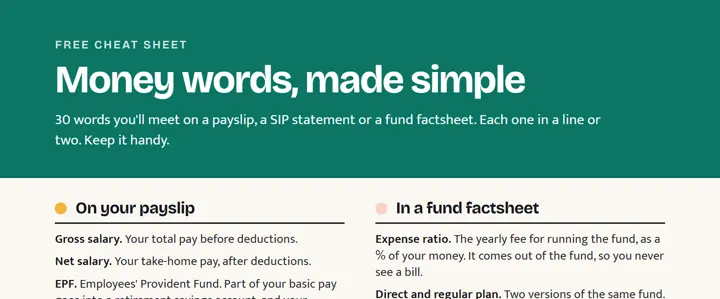
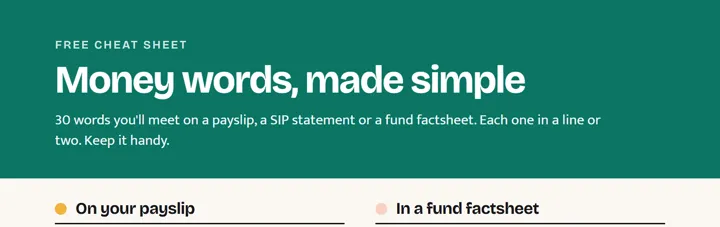
Redesign the cheat-sheet teaser as a locked sheet card
Only the title and headings show; definitions are hidden lines, with a clear sign-up row. Ad 6 matches.

diff --git a/_dev/ads/meta-nov26.html b/_dev/ads/meta-nov26.html
@@ -52,7 +52,13 @@ h1 .hl { color: var(--accent); }
 .ad-6 > .legal { color: #CFE7DF; }
 .ad-6 { padding-bottom: 0; }
 .ad-6 .mid { flex: 1; min-height: 0; overflow: hidden; justify-content: flex-start; margin: 48px -88px 0; padding: 24px 88px 0; }
-.ad-6 .sheet { margin: 40px 0 0; flex: none; width: 820px; border-radius: 16px 16px 0 0; box-shadow: none; -webkit-mask-image: linear-gradient(#000 45%, transparent 98%); mask-image: linear-gradient(#000 45%, transparent 98%); }
+.card6 { width: 840px; align-self: center; margin-top: 36px; background: #FAF7F2; border: 2px solid var(--line); border-radius: 28px; overflow: hidden; rotate: -2deg; box-shadow: 0 30px 60px -30px rgba(0,0,0,.35); }
+.card6 img { display: block; width: 100%; }
+.lines6 { display: grid; grid-template-columns: 1fr 1fr; gap: 18px 8%; padding: 22px 7.5% 30px; -webkit-mask-image: linear-gradient(#000 30%, transparent); mask-image: linear-gradient(#000 30%, transparent); }
+.lines6 span { height: 14px; border-radius: 7px; background: var(--line); }
+.lines6 span:nth-child(3n+2) { width: 72%; } .lines6 span:nth-child(3n) { width: 86%; }
+.lock6 { display: flex; align-items: center; justify-content: center; gap: 14px; padding: 28px; background: var(--paper-hi); border-top: 2px solid var(--line); font: 600 38px/1 'Bricolage Grotesque'; color: var(--ink); }
+.lock6 svg { width: 40px; height: 40px; }
 .ad-6 .cta { position: relative; z-index: 2; background: var(--accent); margin: 0 -88px; padding: 36px 88px 64px; }
 </style>
 </head>
@@ -132,7 +138,7 @@ h1 .hl { color: var(--accent); }
   <span class="eyebrow">Free download</span>
   <h1>30 money words.<br><span class="hl">One page. Free.</span></h1>
   <p class="sub">Payslip, SIP statement, fund factsheet. Each word in a line or two.</p>
-  <div class="mid"><img class="sheet" src="../../assets/img/money-words-teaser.webp" alt=""></div>
+  <div class="mid"><div class="card6"><img src="../../assets/img/money-words-teaser.webp" alt=""><div class="lines6"><span></span><span></span><span></span><span></span><span></span><span></span><span></span><span></span></div><div class="lock6"><svg viewBox="0 0 24 24"><rect x="4.5" y="10.5" width="15" height="10" rx="2.5" fill="#0B7564"/><path d="M8 10.5V8a4 4 0 0 1 8 0v2.5" fill="none" stroke="#0B7564" stroke-width="2.2" stroke-linecap="round"/></svg>All 30 words inside</div></div></div>
   <div class="cta" style="color:#fff;border:0"><div class="brand">%LOGO_W%<span>Research<small>by Srivathsa</small></span></div><span class="btn" style="background:#fff;color:var(--accent)">Get it free →</span></div>
   <p class="legal" style="color:#CFE7DF;z-index:3">Educational content only. Not investment advice.</p>
 </section>

diff --git a/assets/css/site.css b/assets/css/site.css
@@ -970,10 +970,20 @@ html:not(.js) .toy-ctrl { display: none; }
 .mw-form .inline-form .field { flex-basis: 100%; }
 .mw-form .inline-form .btn { flex: 1 1 100%; justify-content: center; }
 .mw-form .form-note { font-size: 1rem; margin: 0; }
-.mw-sheet { position: relative; margin: 0; justify-self: center; width: min(100%, 30rem); transform: rotate(-2deg); }
-/* only the top of the sheet shows, fading out before the definitions: the full sheet is the reward for signing up */
-.mw-sheet img { display: block; width: 100%; height: auto; border-radius: 12px 12px 0 0; -webkit-mask-image: linear-gradient(#000 45%, transparent 98%); mask-image: linear-gradient(#000 45%, transparent 98%); }
-.mw-lock { display: flex; flex-wrap: wrap; align-items: center; justify-content: center; gap: 10px 16px; margin-top: -8px; font-weight: 600; }
+/* The sheet preview: only its title and headings show; the definitions are hidden lines, unlocked by signing up */
+.mw-sheet { margin: 0; justify-self: center; width: min(100%, 30rem); rotate: -1.5deg; }
+.mw-paper { background: #FAF7F2; border: 1px solid var(--line); border-radius: var(--r-card); overflow: clip; box-shadow: var(--shadow-1), 0 28px 56px -28px rgb(23 23 28 / .4); }
+.mw-paper img { display: block; width: 100%; height: auto; }
+.mw-lines { display: grid; grid-template-columns: 1fr 1fr; gap: 12px 8%; padding: 14px 7.5% 22px;
+  -webkit-mask-image: linear-gradient(#000 30%, transparent); mask-image: linear-gradient(#000 30%, transparent); }
+.mw-lines span { height: 9px; border-radius: 5px; background: var(--line); }
+.mw-lines span:nth-child(3n+1) { width: 92%; } .mw-lines span:nth-child(3n+2) { width: 70%; } .mw-lines span:nth-child(3n) { width: 84%; }
+.mw-lock { display: grid; justify-items: center; gap: 12px; text-align: center; padding: var(--s3) var(--s3) var(--s4); background: var(--paper-hi); border-top: 1px solid var(--line); }
+.mw-lock-ic { width: 28px; height: 28px; color: var(--accent); }
+.mw-lock p { display: grid; gap: 2px; margin: 0; }
+.mw-lock strong { font-family: var(--display); font-weight: 600; font-size: var(--step-1); letter-spacing: -0.01em; }
+.mw-lock span { color: var(--ink-2); font-size: 1rem; }
+@media (max-width: 899px) { .mw-sheet { rotate: none; } }
 .mw-groups { display: grid; gap: var(--s3); grid-template-columns: minmax(0, 1fr); margin-top: var(--s4); }
 @media (min-width: 760px) { .mw-groups { grid-template-columns: 1fr 1fr; } }
 @media (min-width: 1100px) { .mw-groups { grid-template-columns: repeat(4, 1fr); } }

diff --git a/money-words.html b/money-words.html
@@ -71,8 +71,15 @@
     </div>
 
     <figure class="mw-sheet rise" style="--d:5">
-      <img src="assets/img/money-words-teaser.webp" width="720" height="299" alt="The top of the one-page cheat sheet, Money words, made simple. The full sheet has 30 words in four groups." fetchpriority="high">
-      <figcaption class="mw-lock"><span>All 30 words, free</span><a class="btn" href="#mw-email">Get the full sheet</a></figcaption>
+      <div class="mw-paper">
+        <img src="assets/img/money-words-teaser.webp" width="720" height="227" alt="The top of the one-page cheat sheet, Money words, made simple, with its first two headings: On your payslip, and In a fund factsheet." fetchpriority="high">
+        <div class="mw-lines" aria-hidden="true"><span></span><span></span><span></span><span></span><span></span><span></span><span></span><span></span><span></span><span></span></div>
+        <figcaption class="mw-lock">
+          <svg class="mw-lock-ic" viewBox="0 0 24 24" aria-hidden="true" focusable="false"><rect x="4.5" y="10.5" width="15" height="10" rx="2.5" fill="currentColor"/><path d="M8 10.5V8a4 4 0 0 1 8 0v2.5" fill="none" stroke="currentColor" stroke-width="2.2" stroke-linecap="round"/></svg>
+          <p><strong>All 30 words are inside</strong><span>Free with your email. Download it straight away.</span></p>
+          <a class="btn" href="#mw-email">Get the full sheet</a>
+        </figcaption>
+      </div>
     </figure>
   </div>
 </section>
